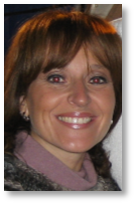
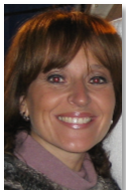
CSS touches

diff --git a/build/2017.html b/build/2017.html
@@ -291,7 +291,7 @@
             <section id="giuria"  class="alternative-style">
                 <div class="row inverted">
                     <i class="ZZ_icon ZZ_icon_tag"></i>
-                    <h1>LA giuria</h1>
+                    <h1>La giuria</h1>
                     <p>
                         Facile.it ha scelto di affidarsi ad alcuni professionisti del settore per comporre la giuria del
                         FacileHack. I giurati sono stati scelti per le loro approfondite competenze e la comprovata
@@ -299,8 +299,8 @@
                     </p>
                     
                     <h2>Cristina Bianchini - Vodafone Italia</h2>
-                    <img src="images/bianchini.png">
-                    <p>
+                    <img src="images/bianchini.png" height="210">
+                    <p style="font-size: 14px">
                         Laureata in Ingegneria Elettronica, con una lunga esperienza nelle Telecomunicazioni. 
                         In Vodafone da 1995, ha rivestito differenti ruoli di responsabilità nell’Ingegneria dei Servizi 
                         di Rete, nelle Operations, nel Demand management dell’IT e di servizi per il mercato mobile e fisso. 
@@ -309,8 +309,8 @@
                     </p>
                     
                     <h2>Fabio Lalli - IQUII</h2> 
-                    <img src="images/lalli.jpg">
-                    <p>
+                    <img src="images/lalli.jpg" height="210">
+                    <p style="font-size: 14px">
                         Amministratore Delegato di IQUII, digital consulting company specializzata in progetti mobile, 
                         wearable/IoT e strategie digitali, parte del Gruppo Multinazionale Be. 
                         Da oltre 15 anni svolge consulenza ICT, aerospaziale, banking. 
@@ -325,8 +325,8 @@
                     </p>
                     
                     <h2>Deborah Raccagni - Bocconi</h2> 
-                    <img src="images/raccagni.jpg">
-                    <p>
+                    <img src="images/raccagni.jpg" height="210">
+                    <p style="font-size: 14px">
                         Lecturer in Marketing, Università Bocconi. Assistente alla Direzione MSc in Marketing Management, 
                         affiliata al CERMES, Centro di Ricerca su Marketing e Servizi e Affiliate Professor nell’Area 
                         Marketing SDA Bocconi. 
@@ -336,8 +336,8 @@
                     </p>
 
                     <h2>Moreno Soppelsa - Casa Editrice Tecniche Nuove</h2> 
-                    <img src="images/soppelsa.jpg">
-                    <p>
+                    <img src="images/soppelsa.jpg" height="210">
+                    <p style="font-size: 14px">
                         Moreno Soppelsa è un giornalista specializzato in nuove tecnologie. 
                         Da quelle che ormai non sono più nuove, come Internet al quale ha dedicato nel 1999 il libro 
                         Manuale di Internet, fino alle più recenti evoluzioni della manifattura additiva, spiegate nel 
@@ -347,8 +347,8 @@
                     </p>
                     
                     <h2>Mauro Giacobbe - Facile.it</h3>
-                    <img src="images/mauro.png">
-                    <p>
+                    <img src="images/mauro.png" height="210">
+                    <p style="font-size: 14px">
                         Lorem ipsum dolor sit amet, consectetur adipiscing elit. Aliquam elementum ex dui, sit amet 
                         commodo metus pretium ac. Donec ipsum ipsum, consectetur at congue ac, convallis et libero. 
                         Aenean ante ipsum, vulputate nec dapibus at, efficitur non magna. Pellentesque vel massa id nulla 

diff --git a/src/2017.html b/src/2017.html
@@ -291,7 +291,7 @@
             <section id="giuria"  class="alternative-style">
                 <div class="row inverted">
                     <i class="ZZ_icon ZZ_icon_tag"></i>
-                    <h1>LA giuria</h1>
+                    <h1>La giuria</h1>
                     <p>
                         Facile.it ha scelto di affidarsi ad alcuni professionisti del settore per comporre la giuria del
                         FacileHack. I giurati sono stati scelti per le loro approfondite competenze e la comprovata
@@ -299,8 +299,8 @@
                     </p>
                     
                     <h2>Cristina Bianchini - Vodafone Italia</h2>
-                    <img src="images/bianchini.png">
-                    <p>
+                    <img src="images/bianchini.png" height="210">
+                    <p style="font-size: 14px">
                         Laureata in Ingegneria Elettronica, con una lunga esperienza nelle Telecomunicazioni. 
                         In Vodafone da 1995, ha rivestito differenti ruoli di responsabilità nell’Ingegneria dei Servizi 
                         di Rete, nelle Operations, nel Demand management dell’IT e di servizi per il mercato mobile e fisso. 
@@ -309,8 +309,8 @@
                     </p>
                     
                     <h2>Fabio Lalli - IQUII</h2> 
-                    <img src="images/lalli.jpg">
-                    <p>
+                    <img src="images/lalli.jpg" height="210">
+                    <p style="font-size: 14px">
                         Amministratore Delegato di IQUII, digital consulting company specializzata in progetti mobile, 
                         wearable/IoT e strategie digitali, parte del Gruppo Multinazionale Be. 
                         Da oltre 15 anni svolge consulenza ICT, aerospaziale, banking. 
@@ -325,8 +325,8 @@
                     </p>
                     
                     <h2>Deborah Raccagni - Bocconi</h2> 
-                    <img src="images/raccagni.jpg">
-                    <p>
+                    <img src="images/raccagni.jpg" height="210">
+                    <p style="font-size: 14px">
                         Lecturer in Marketing, Università Bocconi. Assistente alla Direzione MSc in Marketing Management, 
                         affiliata al CERMES, Centro di Ricerca su Marketing e Servizi e Affiliate Professor nell’Area 
                         Marketing SDA Bocconi. 
@@ -336,8 +336,8 @@
                     </p>
 
                     <h2>Moreno Soppelsa - Casa Editrice Tecniche Nuove</h2> 
-                    <img src="images/soppelsa.jpg">
-                    <p>
+                    <img src="images/soppelsa.jpg" height="210">
+                    <p style="font-size: 14px">
                         Moreno Soppelsa è un giornalista specializzato in nuove tecnologie. 
                         Da quelle che ormai non sono più nuove, come Internet al quale ha dedicato nel 1999 il libro 
                         Manuale di Internet, fino alle più recenti evoluzioni della manifattura additiva, spiegate nel 
@@ -347,8 +347,8 @@
                     </p>
                     
                     <h2>Mauro Giacobbe - Facile.it</h3>
-                    <img src="images/mauro.png">
-                    <p>
+                    <img src="images/mauro.png" height="210">
+                    <p style="font-size: 14px">
                         Lorem ipsum dolor sit amet, consectetur adipiscing elit. Aliquam elementum ex dui, sit amet 
                         commodo metus pretium ac. Donec ipsum ipsum, consectetur at congue ac, convallis et libero. 
                         Aenean ante ipsum, vulputate nec dapibus at, efficitur non magna. Pellentesque vel massa id nulla 
